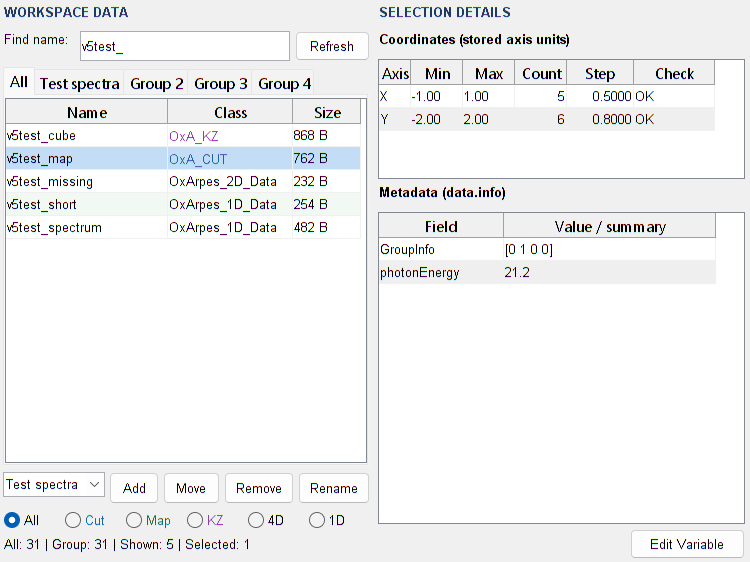
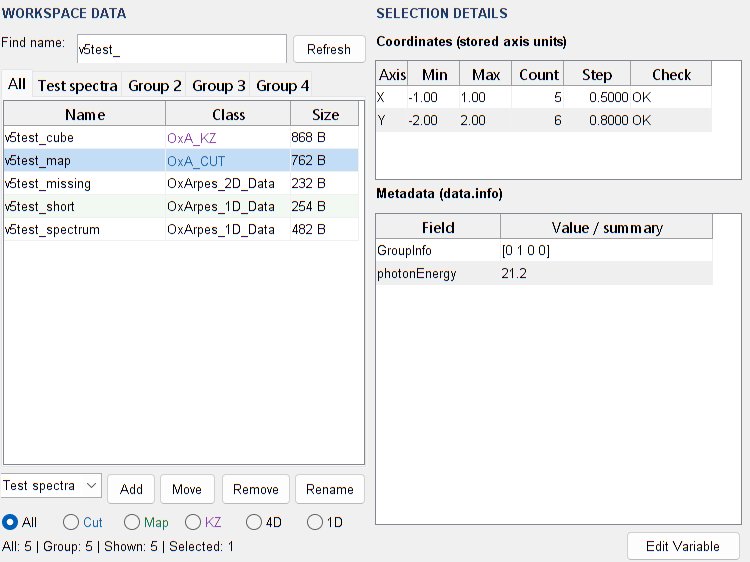
Remove GUI Layout Toolbox dependency from browser v5

Changed region(s): [[0.0, 0.0, 1.0, 0.9982], [0.4907, 0.0, 0.6747, 0.0302], [0.6747, 0.4235, 0.736, 0.5142]]

diff --git a/ARPES_data_browser_v5.m b/ARPES_data_browser_v5.m
@@ -12,6 +12,8 @@ function result = ARPES_data_browser_v5(action, varargin)
 %   filters by OX_ARPES class; all includes every workspace variable.
 %   Add retains other flags; move clears the active source only; remove uses
 %   the active group. Names persist in MATLAB preferences; flags live in INFO.
+%   The browser layout uses built-in MATLAB panels. Tools launched from its
+%   menus (for example PlotSlices) can have their own toolbox requirements.
 if nargin == 0, action = 'open'; end
 action=validatestring(action, {'open','read','refresh','select','group','renamegroup','membership','typefilter'});
 fig = findall(groot,'Type','figure','Tag','ARPESDataBrowserV5');
@@ -59,19 +61,18 @@ if ~iscellstr(handles.GroupLabels) || numel(handles.GroupLabels) ~= 4
     handles.GroupLabels = {'Group 1','Group 2','Group 3','Group 4'};
 end
 buildMenus(fig);
-root = uiextras.HBox('Parent',fig,'Padding',0,'Spacing',0,'Tag','BrowserColumns');
-left = uiextras.VBox('Parent',root,'Padding',3,'Spacing',4,'Tag','WorkspaceColumn');
-right = uiextras.VBox('Parent',root,'Padding',3,'Spacing',4,'Tag','DetailsColumn');
-set(root,'Sizes',[-1 -1]);
+root = browserPanel(fig,'BrowserColumns');
+set(root,'Units','normalized','Position',[0 0 1 1]);
+left = browserPanel(root,'WorkspaceColumn');
+right = browserPanel(root,'DetailsColumn');
 uicontrol('Parent',left,'Style','text','String','WORKSPACE DATA', ...
     'HorizontalAlignment','left','FontWeight','bold','ForegroundColor',[.12 .23 .38]);
-searchRow = uiextras.HBox('Parent',left,'Spacing',4);
+searchRow = browserPanel(left,'SearchRow');
 uicontrol('Parent',searchRow,'Style','text','String','Find name:','HorizontalAlignment','left');
 handles.Search = uicontrol('Parent',searchRow,'Style','edit','BackgroundColor','white', ...
     'HorizontalAlignment','left','Tag','Search','Callback',@UpdateVarList, ...
     'TooltipString','Case-insensitive name filter; press Enter to apply.');
 uicontrol('Parent',searchRow,'String','Refresh','Callback',@UpdateVarList,'Tag','Refresh');
-set(searchRow,'Sizes',[58 -1 60]);
 handles.GroupTabs = uitabgroup('Parent',left,'Tag','GroupTabs');
 handles.GroupAll = uitab('Parent',handles.GroupTabs,'Title','All', ...
     'Tag','GroupAll','UserData',0);
@@ -150,7 +151,7 @@ handles.VarList = uitable('Parent',handles.GroupAll,'Units','normalized', ...
     'CellSelectionCallback',@tableSelectionChanged,'KeyPressFcn',@tableKeyPressed, ...
     'UIContextMenu',ListBoxMenu,'Tag','VarList','FontUnits','points','FontSize',8);
 setappdata(handles.VarList,'SelectedRows',[]);
-actions = uiextras.HBox('Parent',left,'Spacing',3);
+actions = browserPanel(left,'GroupActions');
 handles.GroupTarget = uicontrol('Parent',actions,'Style','popupmenu', ...
     'String',handles.GroupLabels,'Tag','GroupTarget');
 uicontrol('Parent',actions,'String','Add','Callback',@(h,~)groupAction(h,'add'));
@@ -158,7 +159,6 @@ uicontrol('Parent',actions,'String','Move','Callback',@(h,~)groupAction(h,'move'
 uicontrol('Parent',actions,'String','Remove','Callback',@(h,~)groupAction(h,'remove'), ...
     'TooltipString','Remove selected data from the active group.');
 uicontrol('Parent',actions,'String','Rename','Callback',@renameTarget);
-set(actions,'Sizes',[-1 40 46 56 58]);
 handles.TypeFilter = uibuttongroup('Parent',left,'BorderType','none','Tag','TypeFilter');
 filterNames={'all','cut','map','kz','4d','1d'};
 filterLabels={'All','Cut','Map','KZ','4D','1D'};
@@ -175,7 +175,6 @@ set(handles.TypeFilter,'SelectedObject',findobj(handles.TypeFilter,'Tag','Type_a
 set(handles.TypeFilter,'SelectionChangedFcn',@UpdateVarList);
 handles.GroupName=uicontrol('Parent',left,'Style','text','HorizontalAlignment','left', ...
     'String','','Tag','GroupStatus');
-set(left,'Sizes',[18 24 -1 26 18 18]);
 uicontrol('Parent',right,'Style','text','String','SELECTION DETAILS', ...
     'HorizontalAlignment','left','FontWeight','bold','ForegroundColor',[.12 .23 .38]);
 uicontrol('Parent',right,'Style','text','String','Coordinates (stored axis units)', ...
@@ -183,23 +182,21 @@ uicontrol('Parent',right,'Style','text','String','Coordinates (stored axis units
 handles.AxisTable=uitable('Parent',right,'Data',cell(4,6), ...
     'ColumnName',{'Axis','Min','Max','Count','Step','Check'}, ...
     'RowName',[],'ColumnWidth',{26 42 42 42 54 65},'Tag','AxisDetails');
-metadataHeader=uiextras.HBox('Parent',right,'Spacing',3);
-uicontrol('Parent',metadataHeader,'Style','text','String','Metadata (data.info)', ...
+uicontrol('Parent',right,'Style','text','String','Metadata (data.info)', ...
     'HorizontalAlignment','left','FontWeight','bold');
-set(metadataHeader,'Sizes',-1);
 handles.Metadata=uitable('Parent',right,'Data',cell(0,2),'RowName',[], ...
     'ColumnName',{'Field','Value / summary'},'ColumnWidth',{100 170},'Tag','Metadata');
-editRow=uiextras.HBox('Parent',right,'Spacing',3);
-uiextras.Empty('Parent',editRow);
+editRow=browserPanel(right,'EditRow');
 handles.EditVariable=uicontrol('Parent',editRow,'String','Edit Variable', ...
     'Callback',@Listbox_openvar,'Tag','EditVariable');
-set(editRow,'Sizes',[-1 92]);
-set(right,'Sizes',[18 18 96 18 -1 24]);
+handles.Layout=struct('Root',root,'Left',left,'Right',right, ...
+    'Search',searchRow,'Actions',actions,'Edit',editRow);
 % Keep labels, headings, edits and buttons consistent without changing the
 % coordinate/metadata tables or global graphics defaults. Tabs use OS fonts.
 set(findall(fig,'Type','uicontrol'),'FontUnits','points','FontSize',8);
 guidata(fig,handles);
 set(fig,'SizeChangedFcn',@resizeBrowser);
+resizeBrowser(fig,[]);
 set(handles.GroupTabs,'SelectionChangedFcn',@groupTabChanged);
 UpdateVarList(fig);
 installTableMouseHandler(handles.VarList);
@@ -563,8 +560,9 @@ filenamewindow = figure( 'Position', [500 400 200 150], ...
     'HandleVisibility','on',...
     'Tag','enter file name');
 
-% create vertical arrange of elements
-vbox = uiextras.VBox('Parent', filenamewindow);
+% Use the same native layout as the browser, including after dialog resize.
+vbox = browserPanel(filenamewindow,'RearrangeInputs');
+set(vbox,'Units','normalized','Position',[0 0 1 1]);
 
 % create mapping selection
 uicontrol('Parent',vbox,...
@@ -588,6 +586,8 @@ uicontrol('Parent',vbox,...
     'String','Save',...
     'Callback',{@Rearrange_2Dto3D_Processing,FileName_Input,Mapping_Selection, ...
     dataList,filenamewindow});
+set(filenamewindow,'SizeChangedFcn',@(~,~)layoutBrowserBox(vbox,'vertical',-ones(1,5),0,0));
+layoutBrowserBox(vbox,'vertical',-ones(1,5),0,0);
 
 function Rearrange_2Dto3D_Processing(~, ~, fileNameInput, mappingSelection, ...
         dataList, filenameWindow)
@@ -1169,11 +1169,48 @@ end
 if numel(text)>400, text=[text(1:397) '...']; end
 
 function resizeBrowser(fig,~)
-position=get(fig,'Position');
+bounds=getpixelposition(fig);
 minimum=[600 450];
-if any(position(3:4)<minimum)
-    position(3:4)=max(position(3:4),minimum);
-    set(fig,'Position',position);
+if any(bounds(3:4)<minimum)
+    bounds(3:4)=max(bounds(3:4),minimum);
+    setpixelposition(fig,bounds);
+end
+handles=guidata(fig);
+panels=handles.Layout;
+layoutBrowserBox(panels.Root,'horizontal',[-1 -1],0,0);
+layoutBrowserBox(panels.Left,'vertical',[18 24 -1 26 18 18],3,4);
+layoutBrowserBox(panels.Right,'vertical',[18 18 96 18 -1 24],3,4);
+layoutBrowserBox(panels.Search,'horizontal',[58 -1 60],0,4);
+layoutBrowserBox(panels.Actions,'horizontal',[-1 40 46 56 58],0,3);
+% Keep the single edit button aligned to the right without a spacer object.
+bounds=getpixelposition(panels.Edit);
+set(handles.EditVariable,'Units','pixels','Position',[bounds(3)-92 0 92 bounds(4)]);
+
+function panel = browserPanel(parent,tag)
+% Borderless native containers preserve the classic figure/table callbacks.
+panel=uipanel('Parent',parent,'BorderType','none','Units','pixels','Tag',tag);
+
+function layoutBrowserBox(panel,direction,sizes,padding,spacing)
+% Place direct children in creation order. Positive sizes are fixed pixels;
+% negative sizes share the remaining space by weight, as in the old layout.
+children=flipud(get(panel,'Children'));
+bounds=getpixelposition(panel);
+horizontal=strcmp(direction,'horizontal');
+dimension=2-horizontal;
+available=max(0,bounds(dimension+2)-2*padding-spacing*(numel(sizes)-1));
+flexible=sizes<0;
+lengths=sizes;
+lengths(flexible)=max(0,available-sum(sizes(~flexible))) * ...
+    abs(sizes(flexible))/sum(abs(sizes(flexible)));
+cursor=padding;
+for k=1:numel(children)
+    if horizontal
+        position=[cursor padding lengths(k) max(1,bounds(4)-2*padding)];
+    else
+        position=[padding bounds(4)-cursor-lengths(k) max(1,bounds(3)-2*padding) lengths(k)];
+    end
+    set(children(k),'Units','pixels','Position',position);
+    cursor=cursor+lengths(k)+spacing;
 end
 
 function names = variableNames(handles)

diff --git a/tests/test_ARPES_data_browser_v5_layout.m b/tests/test_ARPES_data_browser_v5_layout.m
@@ -1,0 +1,137 @@
+function report = test_ARPES_data_browser_v5_layout(outputFolder)
+%TEST_ARPES_DATA_BROWSER_V5_LAYOUT Exercise v5 without GUI Layout Toolbox.
+%   Optional OUTPUTFOLDER receives synthetic-fixture screenshots.
+if nargin<1, outputFolder=''; end
+assert(isempty(findall(groot,'Tag','ARPESDataBrowserV5')), ...
+    'Close browser v5 before running this isolated layout test.');
+initialFigures=findall(groot,'Type','figure');
+originalPath=path;
+fixtureNames={'v5layout_map','v5layout_cube'};
+for k=1:numel(fixtureNames)
+    assert(~evalin('base',sprintf('exist(''%s'',''var'')',fixtureNames{k})), ...
+        'Fixture name already exists.');
+end
+cleanup=onCleanup(@()finish(originalPath,fixtureNames,initialFigures));
+% Remove the package roots from this session only; never uninstall the add-on.
+folders=strsplit(path,pathsep);
+for k=1:numel(folders)
+    if isfolder(fullfile(folders{k},'+uiextras')) || isfolder(fullfile(folders{k},'+uix'))
+        rmpath(folders{k});
+    end
+end
+assert(isempty(which('uiextras.HBox')) && isempty(which('uix.HBox')), ...
+    'GUI Layout Toolbox must not resolve during this test.');
+source=fileread(which('ARPES_data_browser_v5'));
+assert(isempty(regexp(source,'\<(uiextras|uix)\.','once')));
+map=struct('value',reshape(1:30,5,6),'x',linspace(-1,1,5), ...
+    'y',linspace(-2,2,6),'info',struct('GroupInfo',[0 0 0 0],'note','Layout fixture'));
+assignin('base',fixtureNames{1},map);
+fig=ARPES_data_browser_v5;
+handles=guidata(fig);
+set(handles.Search,'String','v5layout_');
+ARPES_data_browser_v5('refresh');
+ARPES_data_browser_v5('select',fixtureNames(1));
+axesData=get(handles.AxisTable,'Data');
+assert(isequal(axesData(:,[1:4 6]), ...
+    {'X','-1.00','1.00',5,'OK';'Y','-2.00','2.00',6,'OK'}));
+assert(all(abs(cell2mat(axesData(:,5))-[.5;.8])<1e-12));
+ARPES_data_browser_v5('membership','add',2);
+ARPES_data_browser_v5('group',2);
+state=ARPES_data_browser_v5('read');
+assert(isequal(state.names,fixtureNames(1)') && isequal(state.selected,fixtureNames(1)'));
+assert(isequal(get(handles.VarList,'Parent'),handles.Group2));
+assert(isequal(evalin('base','v5layout_map.info.GroupInfo'),[0 1 0 0]));
+ARPES_data_browser_v5('typefilter','cut');
+state=ARPES_data_browser_v5('read');
+assert(isempty(state.names));
+ARPES_data_browser_v5('typefilter','all');
+ARPES_data_browser_v5('select',fixtureNames(1));
+
+% Test growing, shrinking, minimum-size enforcement, and non-pixel figure units.
+browserSizes=[600 460; 600 450; 960 720; 601 451; 400 300];
+for k=1:size(browserSizes,1)
+    set(fig,'Position',[180 180 browserSizes(k,:)]); drawnow;
+    bounds=getpixelposition(fig);
+    % Windows display scaling can round a logical pixel to a device pixel.
+    assert(all(abs(bounds(3:4)-max(browserSizes(k,:),[600 450]))<1), ...
+        'Unexpected browser size: requested %s, received %s.', ...
+        mat2str(browserSizes(k,:)),mat2str(bounds(3:4)));
+    left=getpixelposition(handles.Layout.Left);
+    right=getpixelposition(handles.Layout.Right);
+    assert(abs(left(3)-bounds(3)/2)<1 && abs(right(3)-bounds(3)/2)<1);
+    assert(abs(right(1)-left(1)-left(3))<1);
+    assertContained(handles.Layout.Root);
+    assertContained(handles.Layout.Left);
+    assertContained(handles.Layout.Right);
+    assertContained(handles.Layout.Search);
+    assertContained(handles.Layout.Actions);
+    assertContained(handles.Layout.Edit);
+    if ~isempty(outputFolder) && k<=3
+        if ~isfolder(outputFolder), mkdir(outputFolder); end
+        frame=getframe(fig);
+        imwrite(frame.cdata,fullfile(outputFolder,sprintf('browser_v5_native_%d.png',k)));
+    end
+end
+set(fig,'Units','normalized');
+bounds=getpixelposition(fig); bounds(3:4)=[620 480];
+setpixelposition(fig,bounds); drawnow;
+left=getpixelposition(handles.Layout.Left);
+assert(abs(left(3)-310)<1 && strcmp(get(fig,'Units'),'normalized'));
+set(fig,'Units','pixels');
+
+% Exercise the actual context action and Save callback for index mapping.
+combine=findall(get(handles.VarList,'UIContextMenu'),'Label','Combine');
+action=findall(combine,'Label','2D cuts -> 3D');
+fire(action);
+dialog=findall(groot,'Tag','enter file name');
+assert(isscalar(dialog));
+panel=findall(dialog,'Tag','RearrangeInputs');
+assert(isa(panel,'matlab.ui.container.Panel'));
+dialogSizes=[200 150; 320 250];
+for dimensions=dialogSizes'
+    set(dialog,'Position',[500 400 dimensions']); drawnow;
+    children=flipud(get(panel,'Children'));
+    for k=1:numel(children)
+        bounds=getpixelposition(children(k));
+        assert(abs(bounds(3)-dimensions(1))<1 && abs(bounds(4)-dimensions(2)/5)<1);
+    end
+    assertContained(panel);
+end
+set(findall(dialog,'Style','popupmenu'),'Value',3);
+set(findall(dialog,'Style','edit'),'String',fixtureNames{2});
+fire(findall(dialog,'Style','pushbutton','String','Save'));
+cube=evalin('base',fixtureNames{2});
+assert(isequal(cube.x,1) && isequal(cube.y,map.x) && isequal(cube.z,map.y));
+assert(isequal(reshape(cube.value,5,6),map.value));
+assert(strcmp(get(dialog,'Visible'),'off'));
+assert(isempty(which('uiextras.HBox')) && isempty(which('uix.HBox')));
+report=struct('release',version,'passed',true,'toolboxOnPath',false, ...
+    'resizeCases',size(browserSizes,1)+1+size(dialogSizes,1),'dialogSave',true);
+disp(report);
+end
+
+function assertContained(panel)
+bounds=getpixelposition(panel);
+children=get(panel,'Children');
+for k=1:numel(children)
+    position=getpixelposition(children(k));
+    assert(all(position(1:2)>=-1) && all(position(3:4)>0));
+    assert(all(position(1:2)+position(3:4)<=bounds(3:4)+1));
+end
+end
+
+function fire(control)
+callback=get(control,'Callback');
+if iscell(callback)
+    feval(callback{1},control,[],callback{2:end});
+else
+    feval(callback,control,[]);
+end
+end
+
+function finish(originalPath,fixtureNames,initialFigures)
+figures=findall(groot,'Type','figure');
+delete(figures(~ismember(figures,initialFigures)));
+evalin('base',['clear ' strjoin(fixtureNames,' ')]);
+path(originalPath);
+end

diff --git a/doc/ARPES_data_browser_v5_log.md b/doc/ARPES_data_browser_v5_log.md
@@ -5,6 +5,48 @@
 > Later follow-ups supersede earlier designs and findings; recorded test
 > results do not describe the current runtime unless rerun.
 
+## Native layout dependency removal — 23 November 2026
+
+Replaced all direct GUI Layout Toolbox calls in `ARPES_data_browser_v5.m`
+with borderless MATLAB `uipanel` containers and local pixel-layout code.
+This covers both the browser and the context-menu **Combine → 2D cuts -> 3D**
+input dialog. The browser retains its two equal columns, fixed-height control
+rows, flexible workspace/metadata tables, and 600 x 450 minimum client size.
+The existing classic table, mouse bridge, tabs, menus, and scientific callbacks
+are retained. Minimum-size handling now measures pixels even if the caller
+changes the figure's `Units` property.
+
+This removes the browser's own layout dependency, not the requirements of
+every menu destination. Legacy v32, `PlotSlices`, and other external tools can
+still use GUI Layout Toolbox. README and operation/setup guidance distinguish
+these requirements.
+
+Validation uses MATLAB R2024a in separate batch sessions with synthetic data.
+The existing `test_ARPES_data_browser_v5` passed all eight check groups,
+including all 45 current top-level menu dispatch targets, v32/v5 plotting and
+processing parity, repeated Swing double-clicks, group/tab behavior, filters,
+selection, details, and geometry. Its refreshed default/minimum screenshots
+were inspected. `ARPES_data_browser_v5.m` and the new layout test both have
+zero Code Analyzer notices.
+
+`test_ARPES_data_browser_v5_layout` passed all eight resize cases and the
+dialog Save check. It separately removes the toolbox package
+roots from its temporary MATLAB path and verifies neither `uiextras.HBox`
+nor `uix.HBox` resolves. It exercises browser startup, search, selection,
+details, grouping/filtering, growing/shrinking and minimum dimensions,
+non-pixel figure units, and the conversion dialog's resizing and actual Save
+callback with index mapping. It restores the path and clears only its owned
+fixtures and figures. Windows display scaling is allowed less than one logical
+pixel of rounding in geometry assertions.
+
+```matlab
+setup_yulinARPES;
+addpath('tests');
+test_ARPES_data_browser_v5_layout;
+% The older comparison also needs GUI Layout Toolbox and OX_ARPES DataType:
+test_ARPES_data_browser_v5;
+```
+
 ## Final recorded delivery summary — 17 November 2026
 
 This section describes the final interface recorded for this revision. The chronological sections below retain earlier decisions and validation results; later user revisions supersede them.

diff --git a/AI_skills/MATLAB_SETUP.md b/AI_skills/MATLAB_SETUP.md
@@ -30,7 +30,8 @@ Avoid `addpath(genpath(yulinRoot))`, which can expose archived/duplicate code.
 
 | Workflow | Dependencies |
 |---|---|
-| Browser v32, browser v5, and `PlotSlices` | Desktop MATLAB and GUI Layout Toolbox (`uiextras`); external viewers/processors have additional dependencies. |
+| Browser v5 | Desktop MATLAB; its native panel layout does not require GUI Layout Toolbox. External viewers/processors have their own dependencies. |
+| Browser v32 and `PlotSlices` | Desktop MATLAB and GUI Layout Toolbox (`uiextras`). |
 | Scripted measured-data loading, class methods, and new viewers | The matching OX_ARPES checkout; add `DataType`, `DataLoader`, `DataAnalysis`, and `GUI` as needed. Confirm the expected loader signature against that version. |
 | `kz_plot` simulations | yulinARPES `Visualization`; no measured data or OX_ARPES classes required. |
 | `plotBZ_V1` geometry and simulations | Its package folder and bundled `third_party/matGeom/matGeom`, both added by setup. No separate BZ plotting checkout is required. |

diff --git a/AI_skills/arpes-data-browser/SKILL.md b/AI_skills/arpes-data-browser/SKILL.md
@@ -6,9 +6,11 @@ description: Operate yulinARPES browser v5 to inspect and filter live MATLAB wor
 # Operate ARPES browser v5
 
 Follow [shared MATLAB setup and session guidance](../MATLAB_SETUP.md). Use the
-desktop session containing the data, with yulinARPES and GUI Layout Toolbox on
-its path. This skill operates `ARPES_data_browser_v5`, an independent singleton;
-it does not silently replace a user's requested v32 browser or viewer.
+desktop session containing the data, with yulinARPES on its path. Browser v5
+uses native MATLAB panels; launched tools such as `PlotSlices` can still
+require GUI Layout Toolbox. This skill operates `ARPES_data_browser_v5`, an
+independent singleton; it does not silently replace a user's requested v32
+browser or viewer.
 
 ## Inspect and select
 

diff --git a/README.md b/README.md
@@ -14,8 +14,10 @@ ARPES_data_browser_v5;
 
 [`ARPES_data_browser_v5.m`](ARPES_data_browser_v5.m) is the primary entry point.
 [`data_browser_demo_v32.m`](data_browser_demo_v32.m) is **legacy**, retained for
-compatibility. GUI workflows require GUI Layout Toolbox; measured-data classes
-and several tools also use the separate OX_ARPES package.
+compatibility. Browser v5 itself uses built-in MATLAB layout components and
+does not require GUI Layout Toolbox. Legacy v32 and some launched tools,
+including `PlotSlices`, still require it. Measured-data classes and several
+tools also use the separate OX_ARPES package.
 
 Use **Load → Export NXmpes...** in browser v5, or
 **Loader → Export NXmpes...** in legacy v32, to select workspace datasets

diff --git a/AI_skills/arpes-browse/SKILL.md b/AI_skills/arpes-browse/SKILL.md
@@ -17,8 +17,9 @@ be fulfilled with independent file inputs and saved outputs.
 
 Resolve `yulinRoot` from `setup_yulinARPES` and locate the matching OX_ARPES
 checkout as described in the shared setup guide. Add its `DataType`,
-`DataLoader`, `DataAnalysis`, and `GUI` folders when needed. The browser and
-`PlotSlices` require GUI Layout Toolbox (`uiextras`).
+`DataLoader`, `DataAnalysis`, and `GUI` folders when needed. Browser v5 itself
+does not require GUI Layout Toolbox; `PlotSlices` and legacy v32 still require
+it (`uiextras`).
 
 ```matlab
 setup_yulinARPES;
